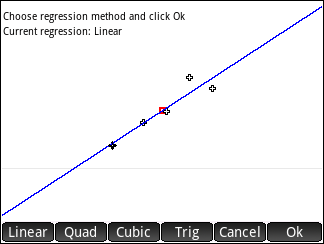
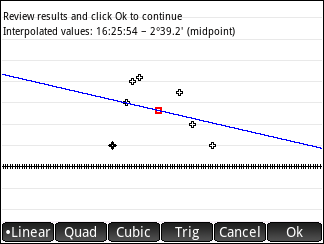
Added extremums in sight interpolation

diff --git a/README.md b/README.md
@@ -170,7 +170,7 @@ Performing a sight reduction is a straightforward process:
 
 ![Enter sextant reading](https://github.com/placidanomaly/HPPrimeSightReduction/blob/main/img/avgproc2.png)
 
-7. The program will return to step 5 and allows entering as many observations of the same body as desired. When no more observations are needed, hit *Cancel* or enter 0 in the HS field. If only one observation was entered, the program will skip to step 8 and use the time and sextant altitude values entered in Observation #1. Otherwise, it will display all the observations entered on a Cartesian plot with time as the horizontal axis and sextant altitude as the vertical axis. The plot includes a best fit curve of the observations, either a linear regression if 3 or fewer observations were made or a cubic regression if 4 or more observations were entered, and a red marker indicating the chosen value, which is at the midpoint of time range on the regression curve. Other regression options can be picked using the soft keys. When done, hit the <img alt="Ok" src="https://github.com/placidanomaly/HPPrimeSightReduction/blob/main/img/keys/ok.png" valign="middle"> soft key to confirm the selected regression.
+7. The program will return to step 5 and allows entering as many observations of the same body as desired. When no more observations are needed, hit *Cancel* or enter 0 in the HS field. If only one observation was entered, the program will skip to step 8 and use the time and sextant altitude values entered in Observation #1. Otherwise, it will display all the observations entered on a Cartesian plot with time as the horizontal axis and sextant altitude as the vertical axis. The plot includes a best fit curve of the observations, either a linear regression if 3 or fewer observations were made or a cubic regression if 4 or more observations were entered. A red marker indicates a chosen value on the interpolated curve, which is at the midpoint of time range on the regression curve unless an extremum exists within the time range, in which case that extremum is chosen. Other regression options can be picked using the soft keys. When done, hit the <img alt="Ok" src="https://github.com/placidanomaly/HPPrimeSightReduction/blob/main/img/keys/ok.png" valign="middle"> soft key to confirm the selected regression.
 
 ![Plot observations](https://github.com/placidanomaly/HPPrimeSightReduction/blob/main/img/avgproc3.png)![Plot observations](https://github.com/placidanomaly/HPPrimeSightReduction/blob/main/img/avgproc4.png)
 
